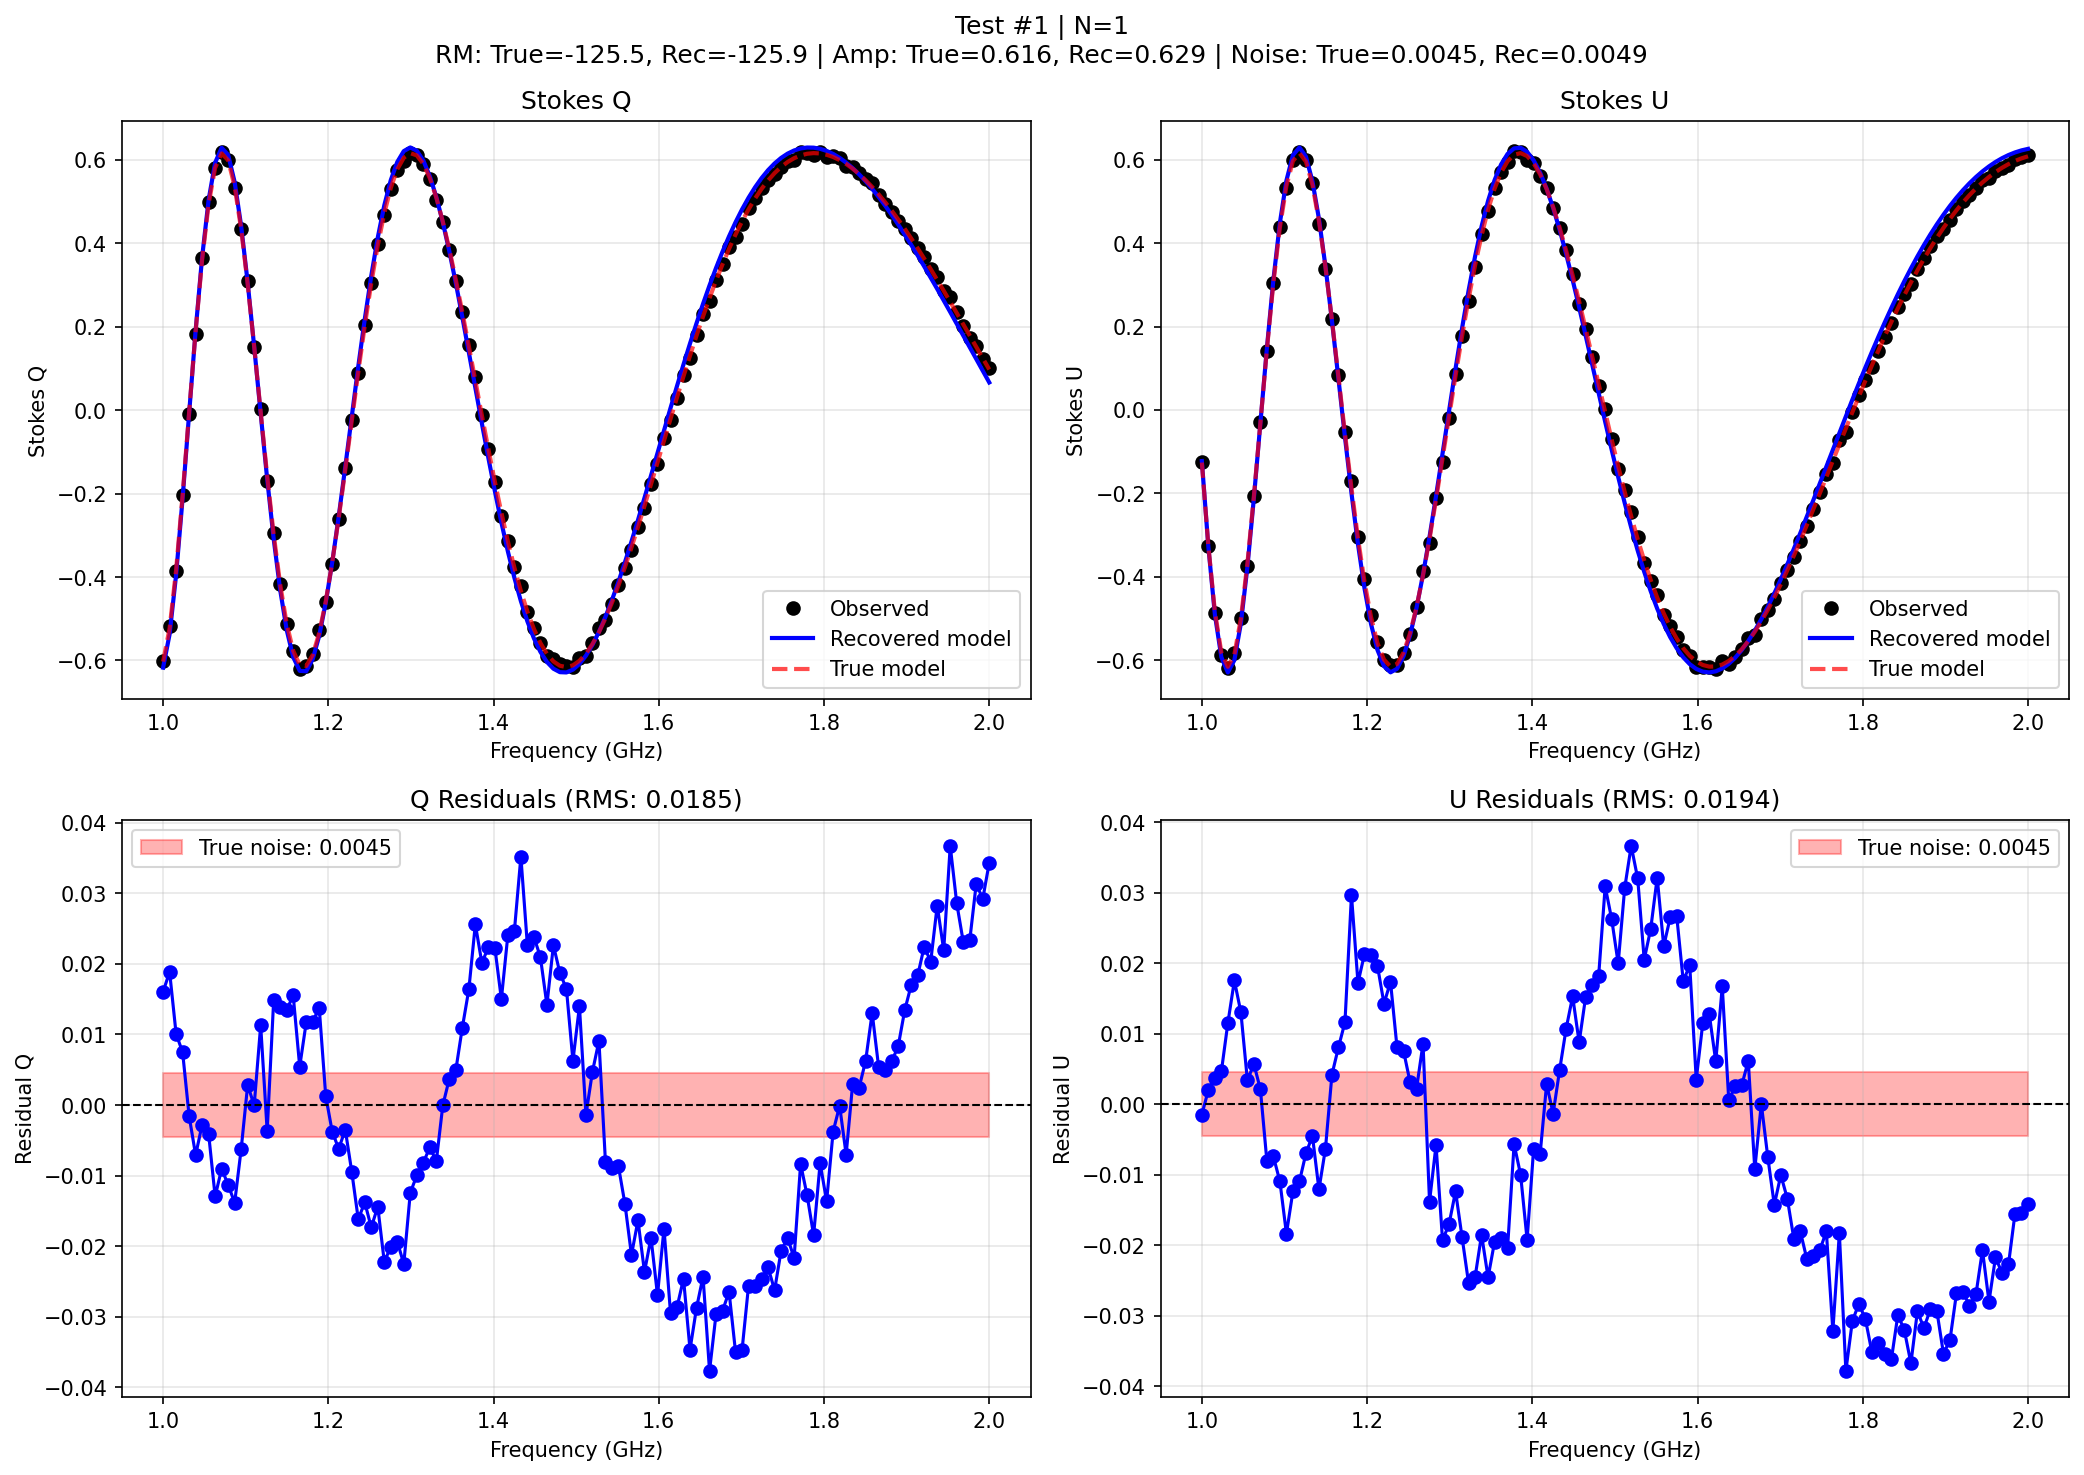
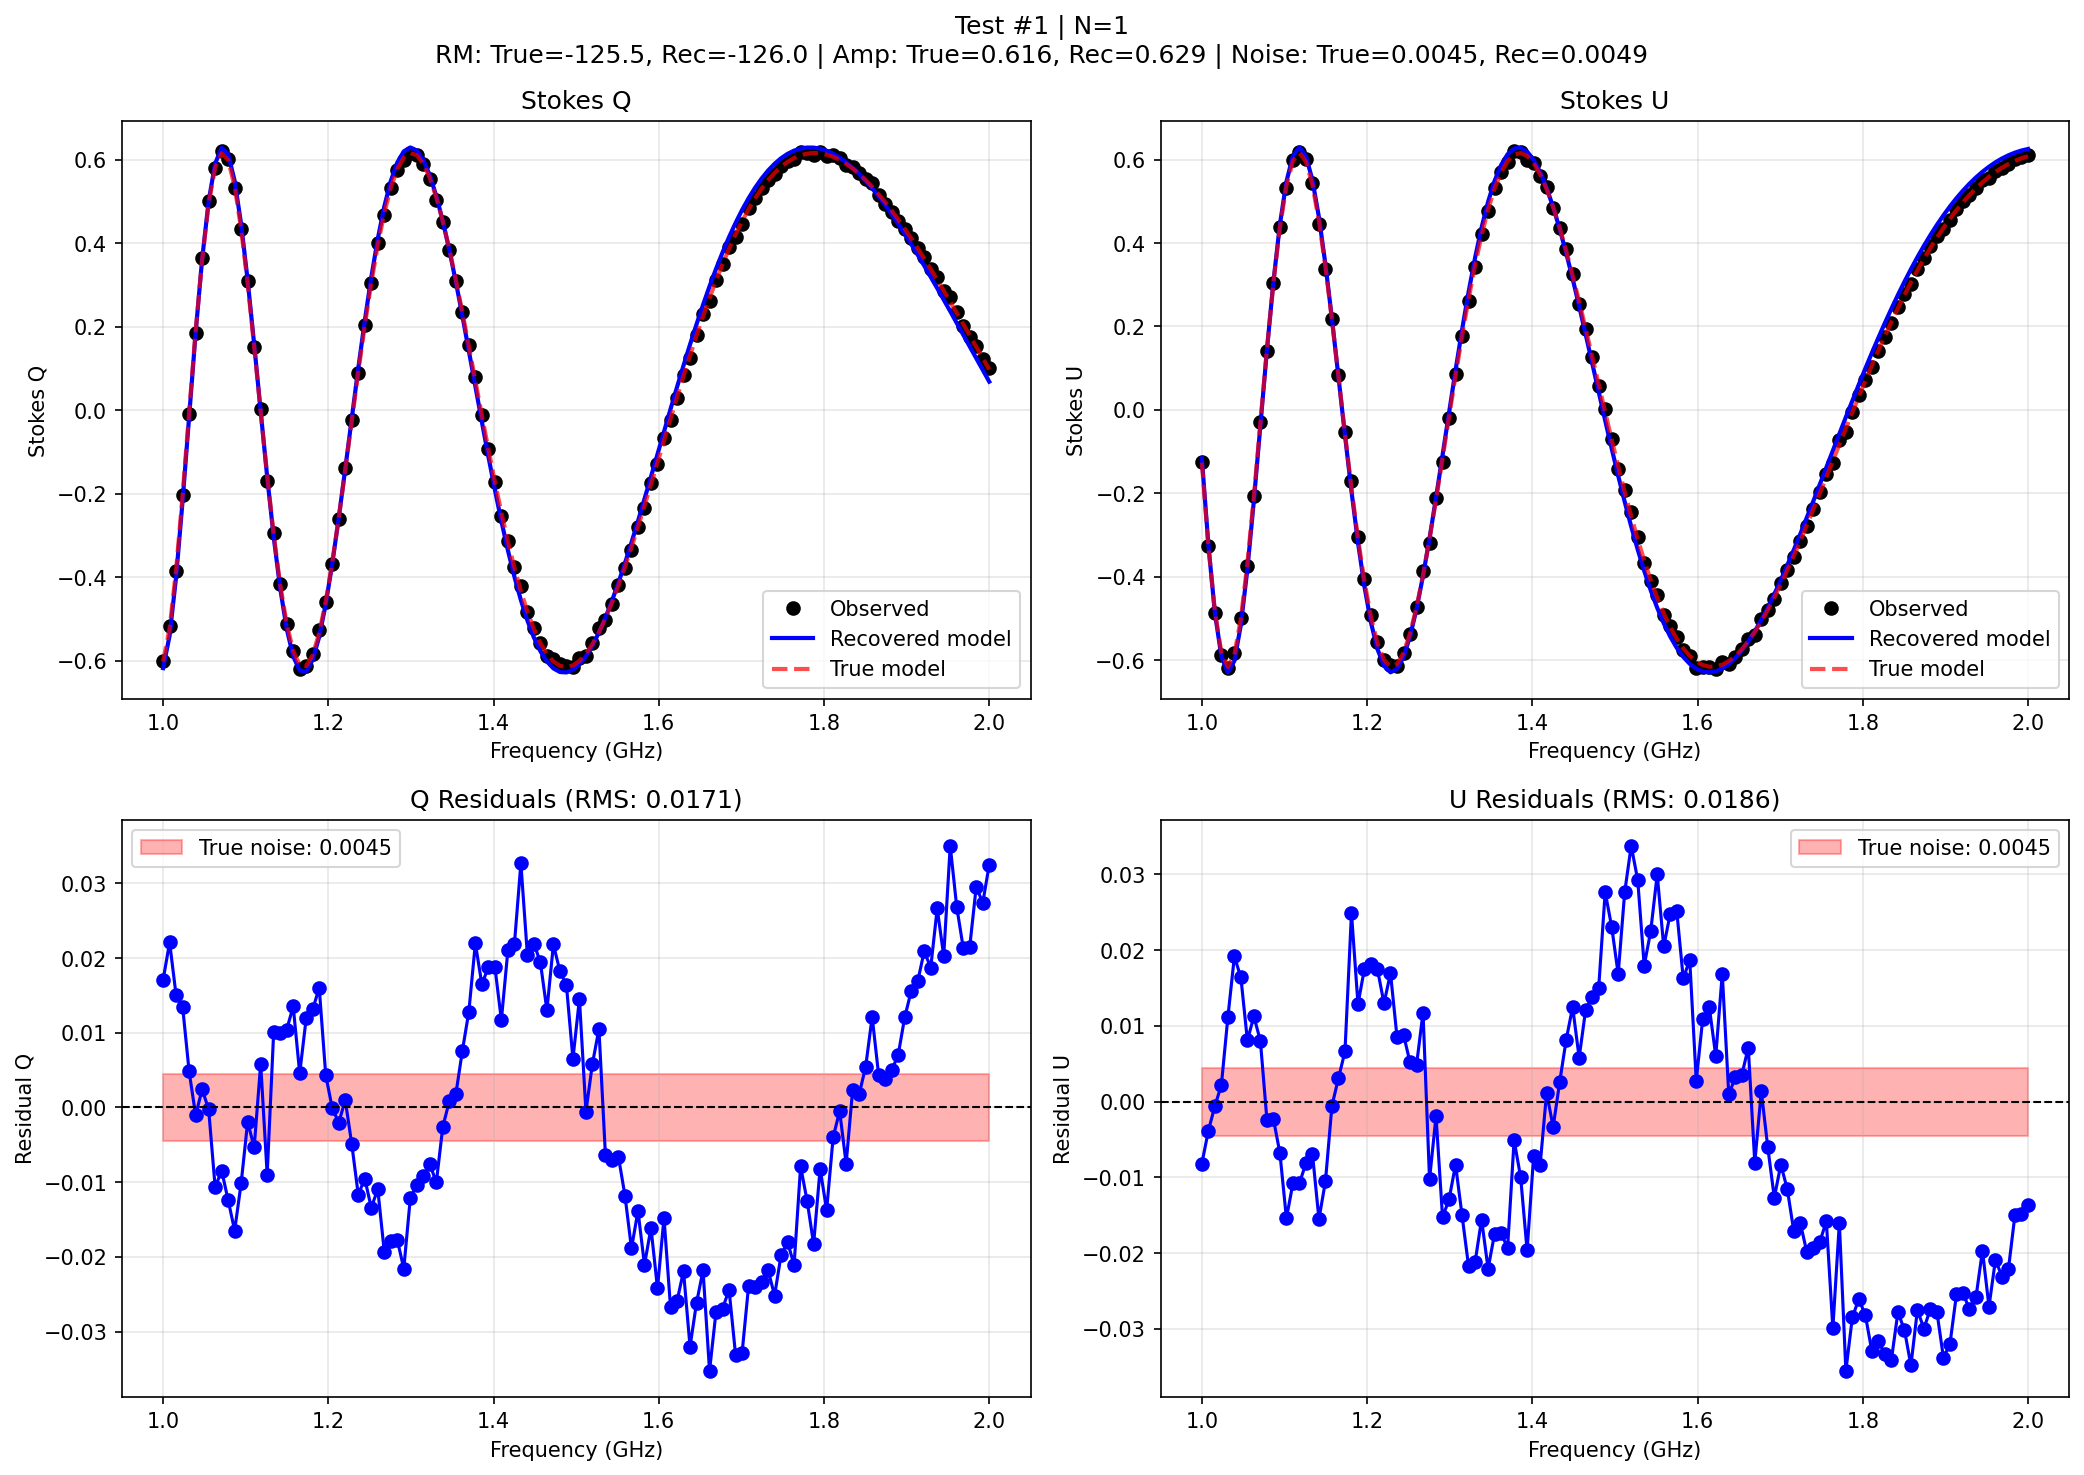
working single component version

diff --git a/validate_model.py b/validate_model.py
@@ -4,6 +4,7 @@ Simple validation script for VROOM-SBI.
 - 20 test cases
 - Recovery plots (true vs recovered for each parameter)
 - Residual plots for first 5 tests
+- Posterior contour plots
 - Summary statistics
 """
 
@@ -17,6 +18,7 @@ import torch
 import matplotlib.pyplot as plt
 from tqdm import tqdm
 import yaml
+import corner
 
 from src.simulator import RMSimulator, sample_prior
 from src.physics import load_frequencies, freq_to_lambda_sq
@@ -59,30 +61,29 @@ def generate_test_cases(
     flat_priors: Dict[str, float],
     seed: int = 42
 ):
-    """Generate synthetic test cases with known ground truth."""
+    """Generate test cases with known parameters."""
     np.random.seed(seed)
+    torch.manual_seed(seed)
     
-    simulator = RMSimulator(freq_file, n_components)
-    theta_true = sample_prior(n_tests, n_components, flat_priors)
+    simulator = RMSimulator(freq_file=freq_file, n_components=n_components)
     
-    x_obs = simulator(theta_true)
-    if x_obs.ndim == 1:
-        x_obs = x_obs.reshape(1, -1)
+    # Sample n_tests parameter sets from prior
+    theta_all = sample_prior(n_tests, n_components, flat_priors)
     
-    return theta_true, x_obs, simulator
+    x_list = []
+    for i in range(n_tests):
+        x = simulator(theta_all[i])
+        x_list.append(x)
+    
+    return theta_all, np.array(x_list)
 
-
-def run_inference(posterior, x_obs: np.ndarray, n_samples: int = 5000, device: str = "cpu"):
-    """Run inference on observed data."""
-    x_tensor = torch.tensor(x_obs, dtype=torch.float32, device=device)
-    
-    with torch.no_grad():
-        samples = posterior.sample((n_samples,), x=x_tensor)
-    
-    return samples.cpu().numpy()
-
-
-def plot_recovery(theta_true_all, theta_recovered_all, theta_std_all, n_components, output_path):
+def plot_recovery(
+    theta_true_all: np.ndarray,
+    theta_recovered_all: np.ndarray,
+    theta_std_all: np.ndarray,
+    n_components: int,
+    output_path: Path
+):
     """
     Plot true vs recovered for all parameters.
     One subplot per parameter type.
@@ -143,10 +144,16 @@ def plot_recovery(theta_true_all, theta_recovered_all, theta_std_all, n_componen
     print(f"Saved: {output_path}")
 
 
-def plot_residuals(theta_true, theta_recovered, x_obs, n_components, freq_file, output_path, test_idx):
-    """
-    Plot Q, U data with model fit and residuals.
-    """
+def plot_residuals(
+    theta_true: np.ndarray,
+    theta_recovered: np.ndarray,
+    x_obs: np.ndarray,
+    n_components: int,
+    freq_file: str,
+    output_path: Path,
+    test_idx: int = 0
+):
+    """Plot residuals between observed and model predictions."""
     frequencies = load_frequencies(freq_file)
     lambda_sq = freq_to_lambda_sq(frequencies)
     n_freq = len(frequencies)
@@ -177,17 +184,15 @@ def plot_residuals(theta_true, theta_recovered, x_obs, n_components, freq_file, 
     Q_true = P_true.real
     U_true = P_true.imag
     
-    # Noise values
-    true_noise = theta_true[-1]
-    inferred_noise = theta_recovered[-1]
-    
     # Residuals
     residuals_Q = Q_obs - Q_model
     residuals_U = U_obs - U_model
-    rms_Q = np.std(residuals_Q)
-    rms_U = np.std(residuals_U)
+    rms_Q = np.sqrt(np.mean(residuals_Q**2))
+    rms_U = np.sqrt(np.mean(residuals_U**2))
     
-    # Create figure
+    true_noise = theta_true[-1]
+    inferred_noise = theta_recovered[-1]
+    
     fig, axes = plt.subplots(2, 2, figsize=(14, 10))
     
     # Q data + fit
@@ -247,7 +252,69 @@ def plot_residuals(theta_true, theta_recovered, x_obs, n_components, freq_file, 
     print(f"Saved: {output_path}")
 
 
-def print_summary(theta_true_all, theta_recovered_all, n_components):
+def plot_posterior_contours(
+    samples: np.ndarray,
+    theta_true: np.ndarray,
+    n_components: int,
+    output_path: Path,
+    test_idx: int = 0
+):
+    """
+    Plot posterior contours with true values marked.
+    
+    Parameters
+    ----------
+    samples : np.ndarray
+        Posterior samples, shape (n_samples, n_params)
+    theta_true : np.ndarray
+        True parameter values
+    n_components : int
+        Number of RM components
+    output_path : Path
+        Where to save the figure
+    test_idx : int
+        Test case index for title
+    """
+    # Build parameter labels
+    labels = []
+    for i in range(n_components):
+        labels.extend([f"RM$_{i+1}$", f"amp$_{i+1}$", f"$\\chi_{{0,{i+1}}}$"])
+    labels.append("$\\sigma$")
+    
+    # Create corner plot with contours
+    fig = corner.corner(
+        samples,
+        labels=labels,
+        truths=theta_true,
+        truth_color="red",
+        quantiles=[0.16, 0.5, 0.84],
+        show_titles=True,
+        title_fmt=".3f",
+        title_kwargs={"fontsize": 10},
+        levels=(0.68, 0.95),  # 1-sigma and 2-sigma contours
+        plot_contours=True,
+        fill_contours=True,
+        contour_kwargs={"colors": ["#1f77b4", "#1f77b4"], "linewidths": 1.5},
+        contourf_kwargs={"alpha": 0.3},
+        hist_kwargs={"density": True, "alpha": 0.7},
+    )
+    
+    fig.suptitle(
+        f"Test #{test_idx + 1} | N={n_components} components\nRed lines = true values",
+        fontsize=14,
+        y=1.02
+    )
+    
+    plt.savefig(output_path, dpi=150, bbox_inches="tight")
+    plt.close(fig)
+    print(f"Saved: {output_path}")
+
+
+def print_summary(
+    theta_true_all: np.ndarray,
+    theta_recovered_all: np.ndarray,
+    n_components: int
+):
     """Print summary statistics."""
     param_names = []
     for i in range(n_components):
@@ -255,26 +322,31 @@ def print_summary(theta_true_all, theta_recovered_all, n_components):
     param_names.append("noise")
     
     print("\n" + "="*60)
-    print("SUMMARY STATISTICS")
+    print("VALIDATION SUMMARY")
     print("="*60)
-    print(f"{'Parameter':<12} {'MAE':>12} {'Mean Error':>12} {'Std Error':>12}")
-    print("-"*60)
     
     for i, name in enumerate(param_names):
-        errors = theta_recovered_all[:, i] - theta_true_all[:, i]
-        mae = np.mean(np.abs(errors))
-        mean_err = np.mean(errors)
-        std_err = np.std(errors)
-        print(f"{name:<12} {mae:>12.4f} {mean_err:>12.4f} {std_err:>12.4f}")
+        true_vals = theta_true_all[:, i]
+        rec_vals = theta_recovered_all[:, i]
+        
+        mae = np.mean(np.abs(true_vals - rec_vals))
+        rmse = np.sqrt(np.mean((true_vals - rec_vals)**2))
+        bias = np.mean(rec_vals - true_vals)
+        
+        print(f"\n{name}:")
+        print(f"  MAE:  {mae:.4f}")
+        print(f"  RMSE: {rmse:.4f}")
+        print(f"  Bias: {bias:.4f}")
     
-    print("="*60)
+    print("\n" + "="*60)
 
 
-def main():
+if __name__ == "__main__":
     parser = argparse.ArgumentParser(description="Simple validation for VROOM-SBI")
     parser.add_argument("--n-tests", type=int, default=20, help="Number of test cases")
     parser.add_argument("--n-samples", type=int, default=5000, help="Posterior samples per test")
     parser.add_argument("--n-residual-plots", type=int, default=5, help="Number of residual plots to make")
+    parser.add_argument("--n-contour-plots", type=int, default=5, help="Number of contour plots to make")
     parser.add_argument("--output-dir", type=str, default="validation_results", help="Output directory")
     parser.add_argument("--model-path", type=str, default="models/posterior_n1.pkl", help="Path to posterior model")
     parser.add_argument("--device", type=str, default="cuda", help="Device (cuda or cpu)")
@@ -291,29 +363,33 @@ def main():
     flat_priors = get_flat_priors(config)
     freq_file = config.get("freq_file", "freq.txt")
     
-    print(f"Loading posterior from {args.model_path}...")
     posterior, model_data = load_posterior(args.model_path)
-    n_components = model_data["n_components"]
-    print(f"Model has {n_components} component(s)")
+    n_components = model_data.get("n_components", 1)
+    
+    print(f"Loaded model for N={n_components} components")
+    print(f"Running {args.n_tests} test cases...")
+    
+    # Set device
+    device = args.device
+    if device == "cuda" and not torch.cuda.is_available():
+        device = "cpu"
+        print("CUDA not available, using CPU")
     
     # Generate test cases
-    print(f"\nGenerating {args.n_tests} test cases...")
-    theta_true_all, x_obs_all, simulator = generate_test_cases(
-        n_components=n_components,
-        n_tests=args.n_tests,
-        freq_file=freq_file,
-        flat_priors=flat_priors,
-        seed=args.seed
+    theta_true_all, x_obs_all = generate_test_cases(
+        n_components, args.n_tests, freq_file, flat_priors, args.seed
     )
     
-    # Run inference on all test cases
-    print(f"\nRunning inference...")
+    # Run inference on each test case
     theta_recovered_all = []
     theta_std_all = []
     all_samples = []
     
-    for i in tqdm(range(args.n_tests), desc="Inferring"):
-        samples = run_inference(posterior, x_obs_all[i], n_samples=args.n_samples, device=args.device)
+    for i in tqdm(range(args.n_tests), desc="Running inference"):
+        x_obs = torch.tensor(x_obs_all[i], dtype=torch.float32).to(device)
+        
+        samples = posterior.sample((args.n_samples,), x=x_obs).cpu().numpy()
+        
         theta_recovered_all.append(np.mean(samples, axis=0))
         theta_std_all.append(np.std(samples, axis=0))
         all_samples.append(samples)
@@ -338,11 +414,16 @@ def main():
             test_idx=i
         )
     
+    # Plot 3: Posterior contour plots for first N tests
+    print(f"\nGenerating {args.n_contour_plots} contour plots...")
+    for i in range(min(args.n_contour_plots, args.n_tests)):
+        plot_posterior_contours(
+            all_samples[i],
+            theta_true_all[i],
+            n_components,
+            output_dir / f"contours_test{i+1}.png",
+            test_idx=i
+        )
+    
     # Print summary
     print_summary(theta_true_all, theta_recovered_all, n_components)
-    
-    print(f"\nDone! Results saved to {output_dir}/")
-
-
-if __name__ == "__main__":
-    main()
